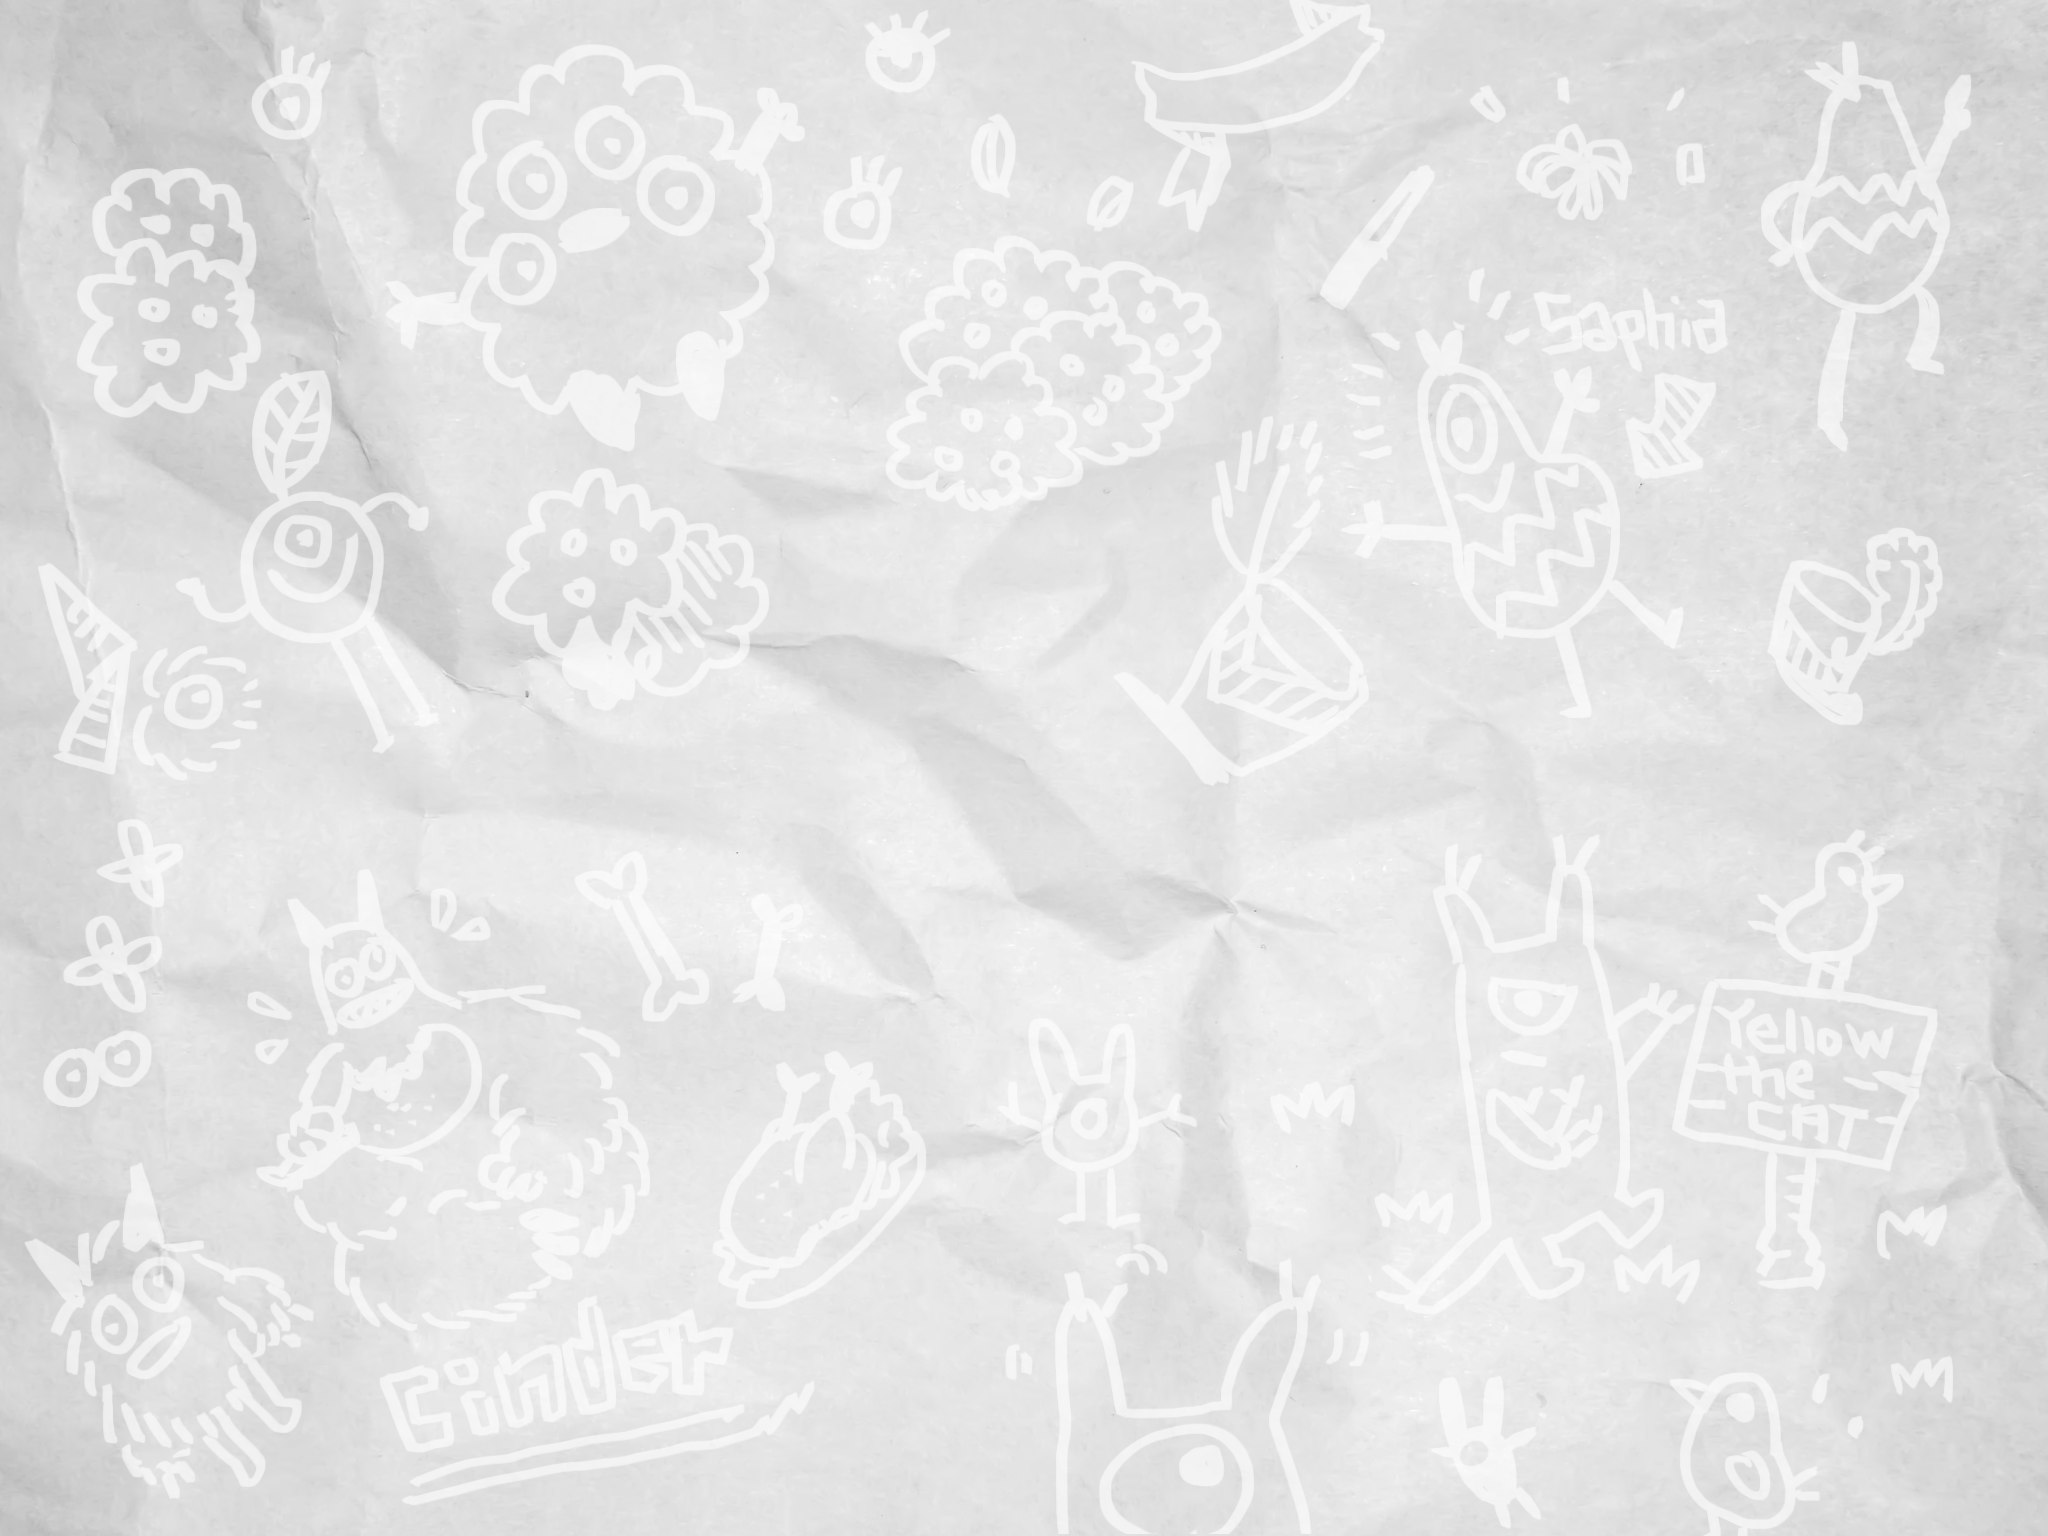
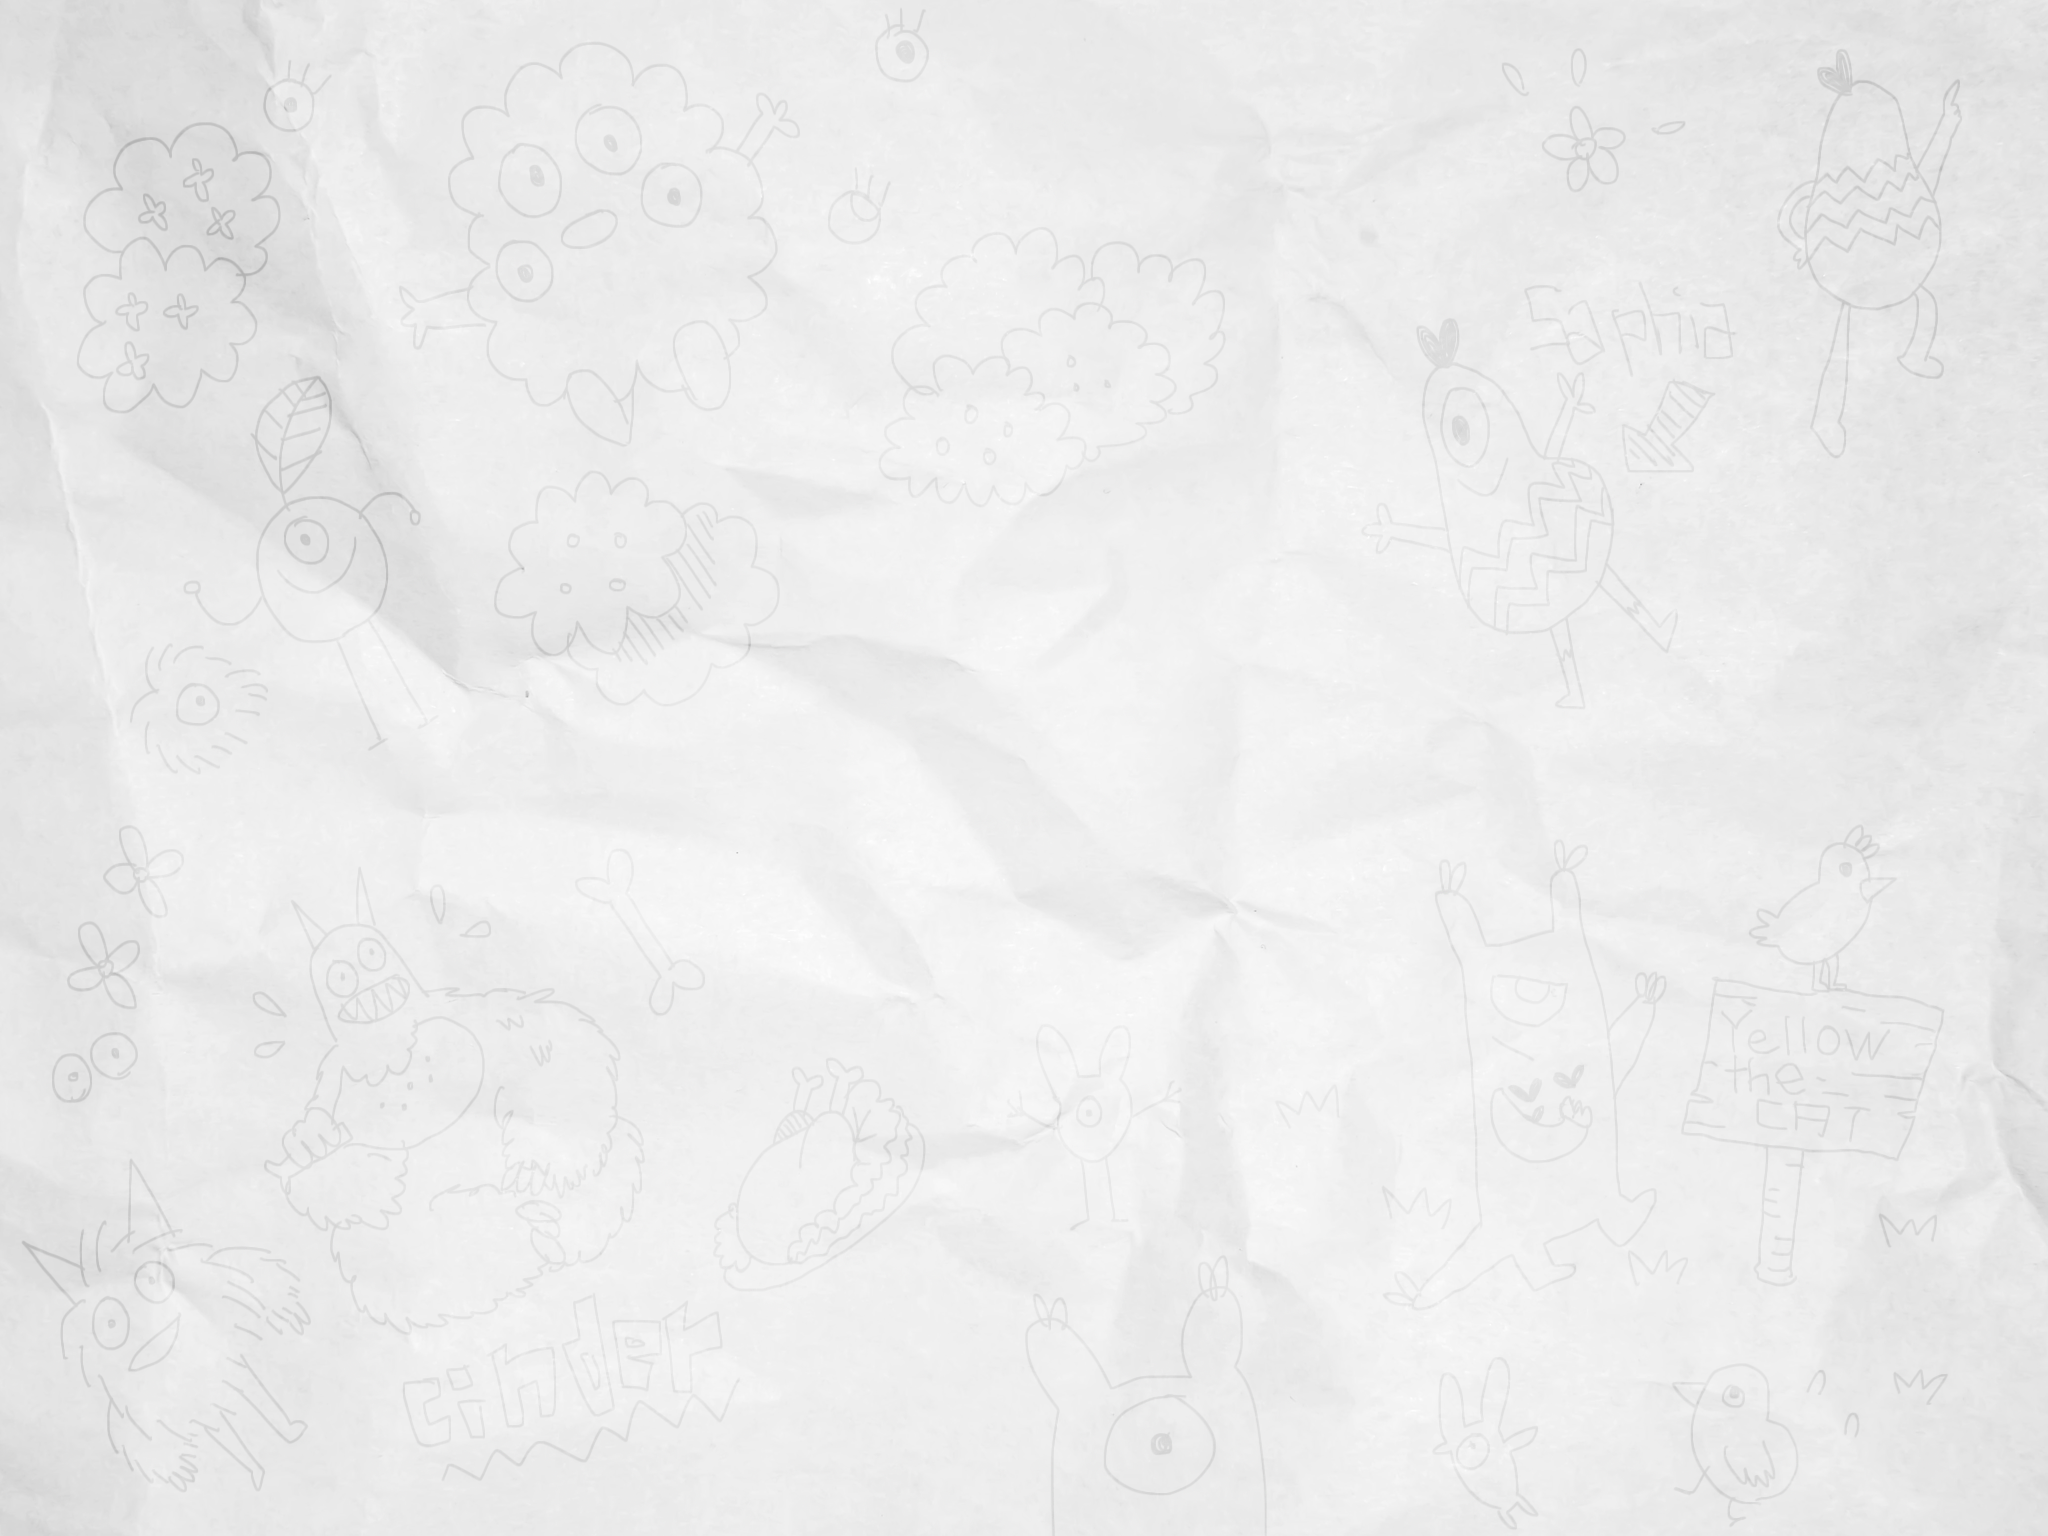
일단 배경을 추가했습니다~~

Changed region(s): [[0.125, 0.25, 0.1562, 0.3438], [0.875, 0.0312, 0.9062, 0.0625], [0.0312, 0.6875, 0.0625, 0.7188]]

diff --git a/Classes/PlayScene.cpp b/Classes/PlayScene.cpp
@@ -1,5 +1,5 @@
 #include "PlayScene.h"
-#include "BackgroundLayer.h"
+#include "BackgroundDrawLayer.h"
 #include "GameBoardLayer.h"
 #include "GameEndLayer.h"
 #include "HelpButtonLayer.h"
@@ -27,7 +27,7 @@ bool CPlayScene::init(void)
     
 	/////////////////////////////
     // 2. add layers
-	CCLayer* BackgroundLayer = CBackgroundLayer::create();
+	CCLayer* BackgroundLayer = CBackgroundDrawLayer::create();
 	this->addChild(BackgroundLayer, 0);
 
 	gameBoard = CGameBoardLayer::create();
@@ -97,7 +97,7 @@ void CPlayScene::update(float dt)
             // 오류 레이어 생성
             this->removeAllChildren();
             
-            CCLayer* BackgroundLayer = CBackgroundLayer::create();
+            CCLayer* BackgroundLayer = CBackgroundDrawLayer::create();
             this->addChild(BackgroundLayer, 0);
             
             CCLayer* DisconnectedLayer = CDisconnectedLayer::create();

diff --git a/Classes/BackgroundDrawLayer.cpp b/Classes/BackgroundDrawLayer.cpp
@@ -1,0 +1,27 @@
+#include "BackgroundDrawLayer.h"
+#include "config.h"
+
+USING_NS_CC;
+
+bool CBackgroundDrawLayer::init()
+{
+	//////////////////////////////
+    // 1. super init first
+    if ( !CCLayer::init() )
+    {
+        return false;
+    }
+    
+    CCSize visibleSize = CCDirector::sharedDirector()->getVisibleSize();
+    CCPoint origin = CCDirector::sharedDirector()->getVisibleOrigin();
+    
+	/////////////////////////////
+    // 2. add a background image
+	CCSprite* pBackground = CCSprite::create(SHARED_BACKGROUND_DRAW.c_str());
+    
+	pBackground->setPosition(ccp(visibleSize.width/2 + origin.x, visibleSize.height/2 + origin.y));
+    
+    this->addChild(pBackground, 0);
+    
+    return true;
+}

diff --git a/Classes/BackgroundDrawLayer.h b/Classes/BackgroundDrawLayer.h
@@ -1,0 +1,12 @@
+#pragma once
+#include "cocos2d.h"
+
+class CBackgroundDrawLayer : public cocos2d::CCLayer
+{
+public:
+	virtual bool init();
+    
+	// implement the "static node()" method manually
+    CREATE_FUNC(CBackgroundDrawLayer);
+};
+
